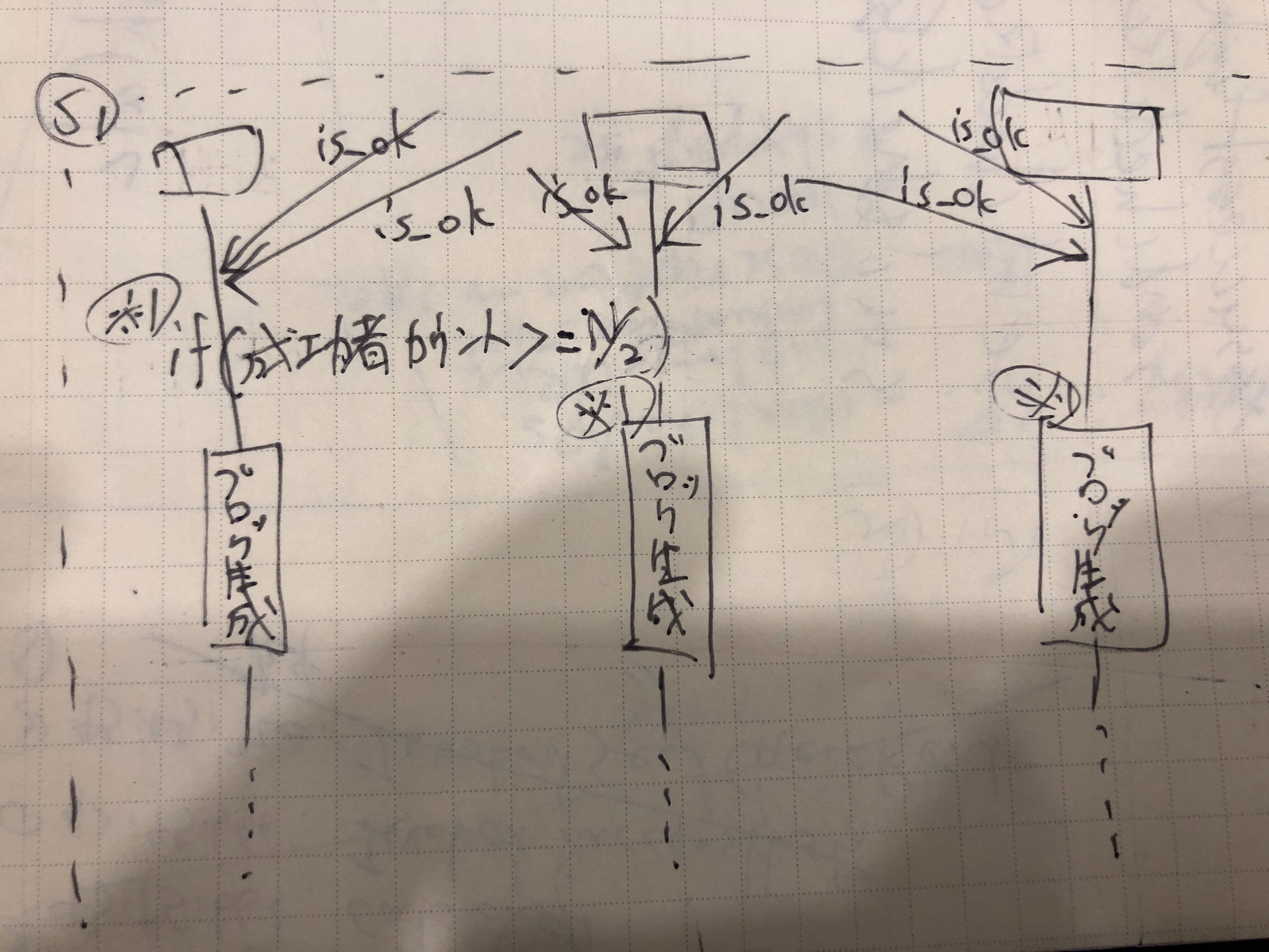
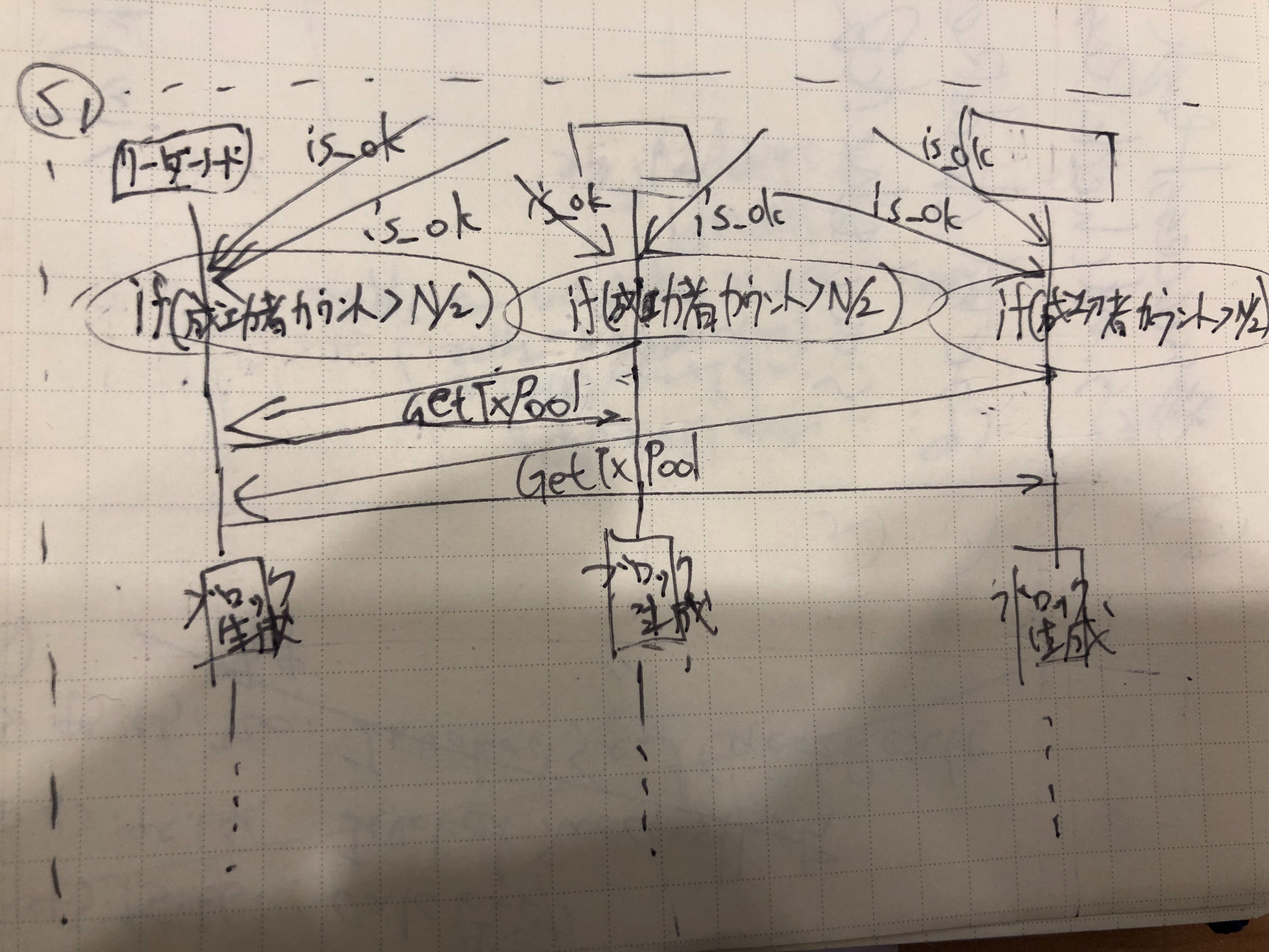
wip

diff --git a/doc/consensus.md b/doc/consensus.md
@@ -14,10 +14,12 @@
 
 以下で図とともに詳細を解説していく  
 ![](images/consensus_1.jpg)
-- 各ノードはバックグラウンドでひたすらハッシュ計算をし、ブロック作成可能なハッシュ値を生成できたら、各ノードの `SuccessHashCalc` (gRPCのメソッド)を叩き、各ノードに伝搬する
-- 各ノードは `SuccessHashCalc` でNonce、RequestID、を受け取り、手元で再計算し、計算が終了したら `SendCheck` (gRPCのメソッド) を叩き、各ノードに成功か否かを伝える
+- 各ノードはバックグラウンドでひたすらハッシュ計算をし、ブロック作成可能なハッシュ値を生成できたら(上図のシーケンス図で言うところの`成功者`)、各ノードの `SuccessHashCalc` (gRPCのメソッド)を叩き、各ノードに伝搬する
+- 各ノードは `SuccessHashCalc` でNonce、RequestID、を受け取り、手元で再計算し、計算が終了したら `SendCheckResult` (gRPCのメソッド) を叩き、各ノードに成功か否かを伝える
 
 ![](images/consensus_2.jpg)
 - ノードは `SuccessHashCalc` を受け取ったとき、リクエスト内部の `is_ok` をRequestIDごとにカウントし、ハッシュ計算の成功のカウントが予め用意してあるノード数に応じたしきい値を超えた場合に初めてブロックを生成する
+- その際、(※1)で保存したブロックになる予定のTxをすべてリーダーノードから取得する。
+
 
 
